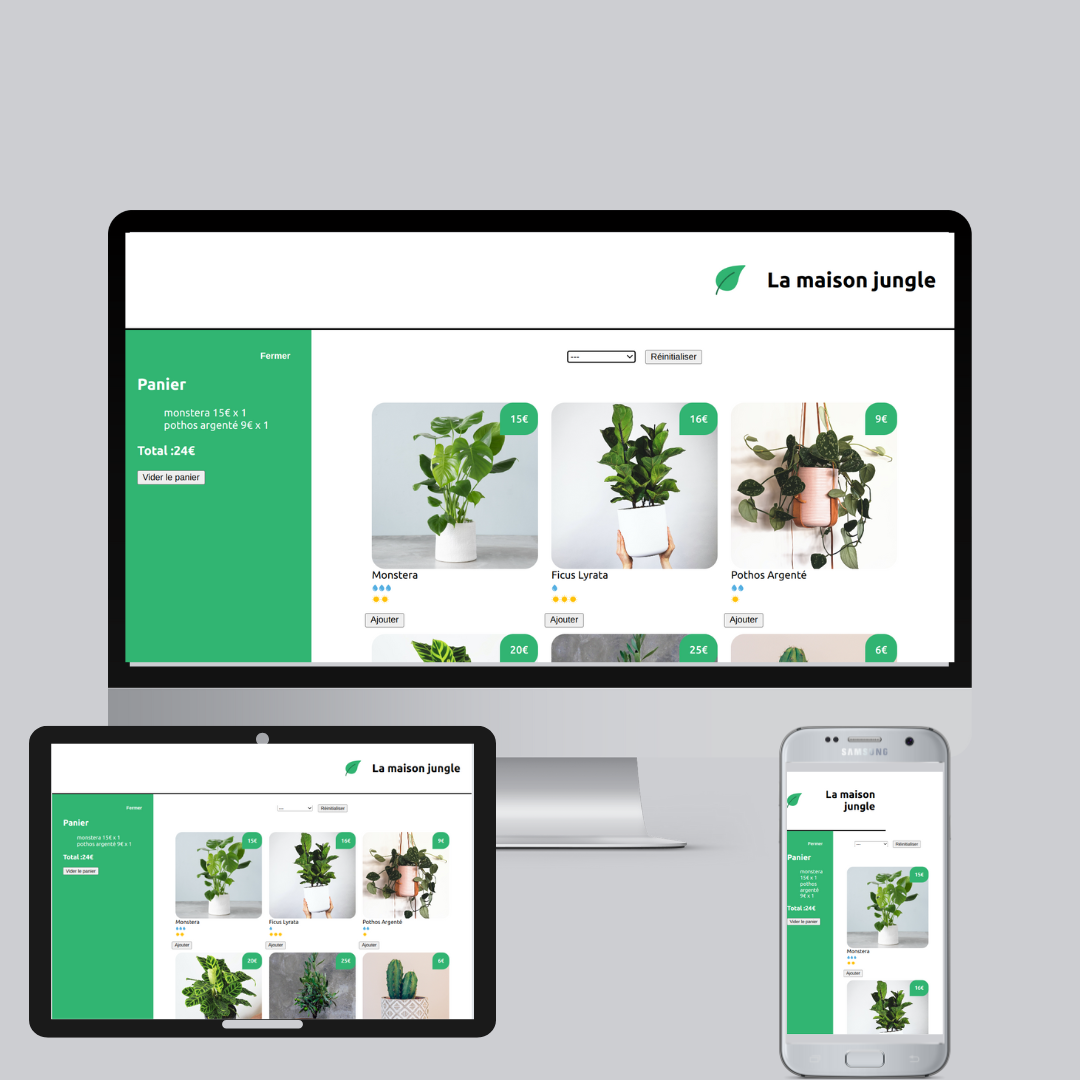
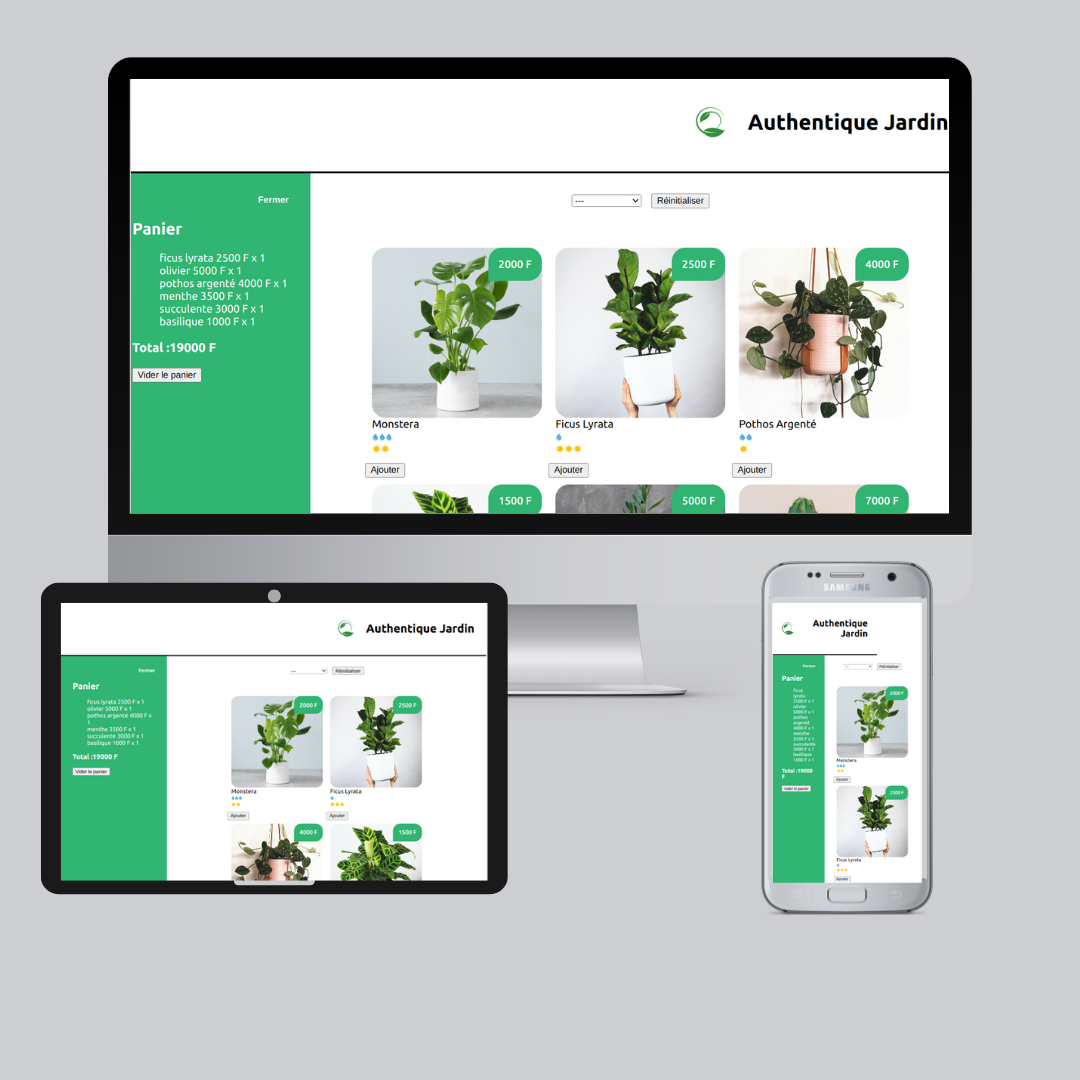
change image of 3rd projects (nos réalisations

diff --git a/www/templates/index.html b/www/templates/index.html
@@ -442,7 +442,8 @@ Start Call To Action
 				
 		</div> 		<!-- End row -->
 	</div>   	<!-- End container -->
-</section>   <!-- End section -->
+</section>   <!-- End section --> letter-spacing: 2px;
+  
 	
 
 <!-- Start projects section
@@ -479,9 +480,9 @@ Start Call To Action
 					</div>
 					<div class="col-md-4 col-sm-4 padcol ">
 						<div class="col-3">
-							<a><img src="{% static 'images/portfolio/lmj.png' %}" alt="maison jungle" class="img-responsive" >
+							<a><img src="{% static 'images/portfolio/lmj.png' %}" alt="Authentique Jardin" class="img-responsive" >
 								<div class="col-pic">
-									<h5>LA MAISON JUNGLE <br> <br> En cours</h5>
+									<h5>AUTHENTIQUE JARDIN <br> <br> En cours</h5>
 								</div></a>
 						</div>
 					</div>
